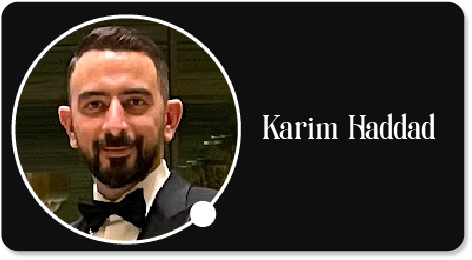
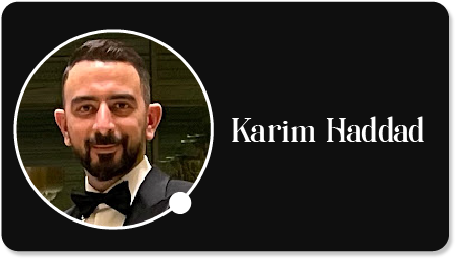
Add files via upload

diff --git a/index.html/index.html b/index.html/index.html
@@ -9,6 +9,7 @@
       background-color: #f2f2f2; /* Dark background color */
       font-family: Arial, sans-serif;
       color: #fff; /* Text color */
+      margin: 0; /* Remove default margin */
     }
 
     .container {
@@ -44,26 +45,57 @@
     .social-icons-container {
       background-color: #000;
       max-width: 465px;
-      max-height: 150px;
       border-radius: 20px; /* Apply border-radius to the container */
       display: flex;
       justify-content: center;
       align-items: center;
-      margin-top: 20px;
-      margin-left: 165px;
+      margin: 20px auto; /* Center the container horizontally */
     }
 
     .social-icons-container a {
       margin-right: 20px; /* Adjust spacing between icons */
     }
 
-    .social-icons a i {
-      transition: all 0.3s ease-in-out;
+    /* Move the button to the left side */
+    .save-contact {
+      text-align: right; /* Center the button text */
+      margin-right: 165px;
+      margin-top: 20px; /* Adjust the top margin */
     }
 
-    .social-icons a:hover i {
+    .save-contact a {
+      text-decoration: none; /* Remove underlines from the link */
+    }
+
+    .save-contact img {
+      vertical-align: middle;
+      margin-right: 10px;
+    }
+
+    .save-contact:hover img {
       transform: scale(1.2);
       color: #0077b5;
+    }
+
+    /* Media query for mobile screens */
+    @media (max-width: 480px) {
+      .container {
+        padding: 10px; /* Reduce padding for smaller screens */
+      }
+
+      .social-icons-container {
+        max-width: 100%; /* Adjust max-width for mobile screens */
+        flex-wrap: wrap; /* Allow icons to wrap to the next line */
+      }
+
+      .social-icons-container a {
+        margin: 10px; /* Adjust spacing between icons for mobile screens */
+      }
+
+      .save-contact {
+        text-align: right; /* Center the button text */
+        margin: 20px auto; /* Center the button horizontally */
+      }
     }
   </style>
 
@@ -104,7 +136,7 @@
 
   <div class="save-contact">
     <a href="#" onclick="saveContact()">
-      <img src="D.png" alt="Save Contact" style="vertical-align: middle; margin-right: 10px; margin-top: 30px;">
+      <img src="D.png" alt="Save Contact">
     </a>
   </div>
 </div>
